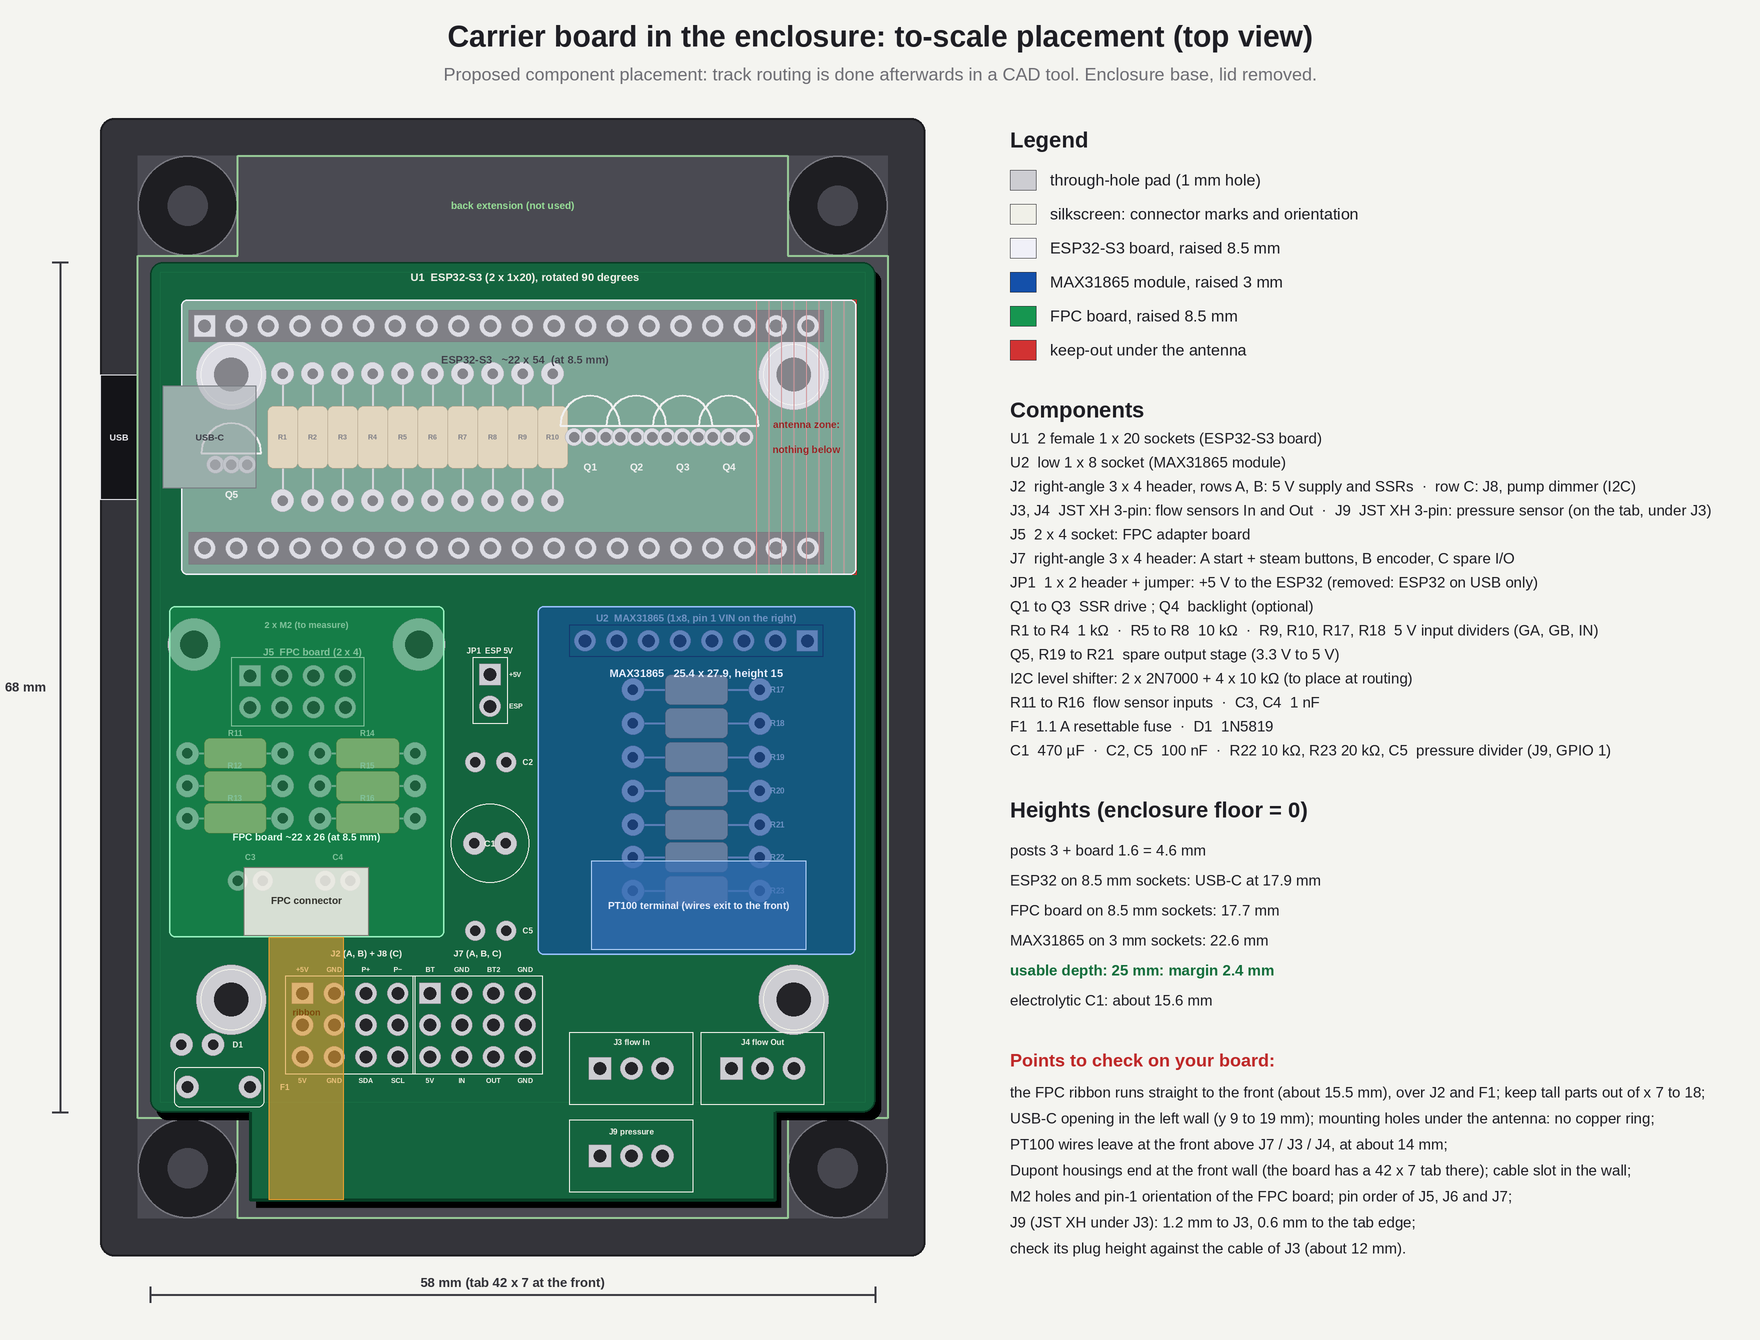
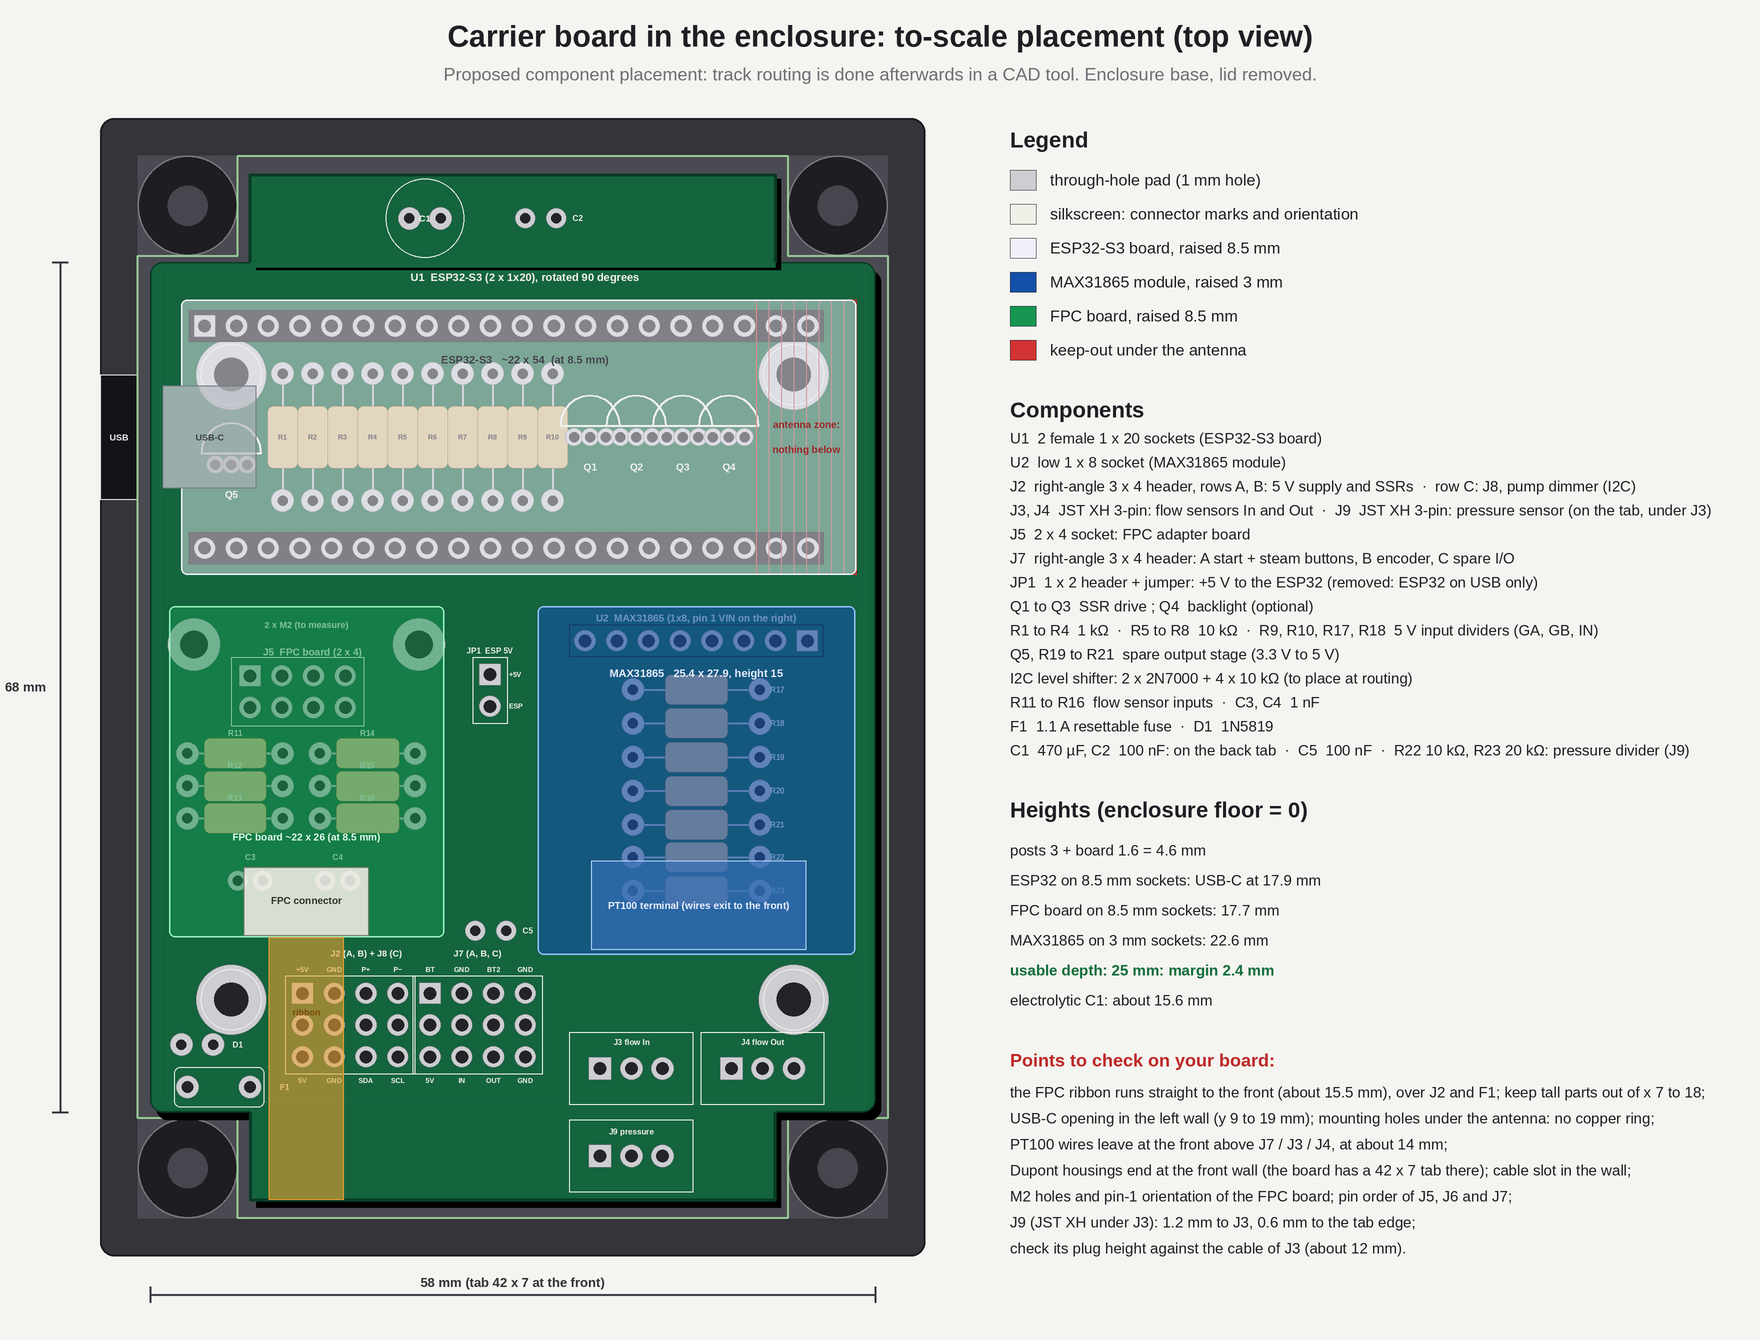
Back tab (42 x 7 mm): C1 and C2 move there, the central corridor keeps JP1 and C5
Claude-Session: https://claude.ai/code/session_012AnZeUFZeKvHXGUDRfJG7Q

diff --git a/tools/board_placement.py b/tools/board_placement.py
@@ -49,7 +49,6 @@ for (xa, xb, ya, yb) in [(-1, 7, -8.5, -0.5), (51, 59, -8.5, -0.5), (-1, 7, 68.5
     circ(d, (X(xa) + X(xb)) / 2, (Y(ya) + Y(yb)) / 2, 1.6 * K, fill=(70, 70, 78, 255))
 cross = [(-1, -0.5), (7, -0.5), (7, -8.5), (51, -8.5), (51, -0.5), (59, -0.5), (59, 68.5), (51, 68.5), (51, 76.5), (7, 76.5), (7, 68.5), (-1, 68.5)]
 line(d, [(X(a), Y(b)) for a, b in cross + [cross[0]]], (150, 200, 150), 2)
-text(d, X(29), Y(-4.5), "back extension (not used)", 10, (150, 220, 150), True)
 
 # ---------------------------------------------------------------- the board 58 x 68
 PW, PL = 58.0, 68.0
@@ -60,6 +59,10 @@ rect(d, X(0.8), Y(0.8), X(PW - 0.8), Y(PL - 0.8), outline=MASK2 + (255,), width=
 rect(d, X(8) + 6, Y(PL) + 4, X(50) + 6, Y(75) + 8, fill=(0, 0, 0, 90))
 rect(d, X(8), Y(PL) - 5, X(50), Y(75), fill=MASK + (255,))
 line(d, [(X(8), Y(PL)), (X(8), Y(75)), (X(50), Y(75)), (X(50), Y(PL))], (8, 60, 36, 255), 3)
+# back tab of the board (42 x 7) behind the ESP32: C1 and C2
+rect(d, X(8) + 6, Y(-7) + 4, X(50) + 6, Y(0) + 8, fill=(0, 0, 0, 90))
+rect(d, X(8), Y(-7), X(50), Y(0) + 5, fill=MASK + (255,))
+line(d, [(X(8), Y(0)), (X(8), Y(-7)), (X(50), Y(-7)), (X(50), Y(0))], (8, 60, 36, 255), 3)
 
 def hole(cx, cy, dia, ring):
     circ(d, X(cx), Y(cy), ring / 2 * K, fill=PAD + (255,), outline=(120, 120, 126, 255), width=1)
@@ -201,11 +204,11 @@ tpad(3.0, 66.0, ring=1.8, drill=0.9); tpad(8.0, 66.0, ring=1.8, drill=0.9)
 rrect(d, X(1.9), Y(64.4), X(9.1), Y(67.6), 6, outline=SILK + (255,), width=2); text(d, X(10.4), Y(66.0), "F1", 8, SILK, True, 'lm')
 tpad(2.5, 62.6, ring=1.8, drill=0.8); tpad(5.04, 62.6, ring=1.8, drill=0.8)
 text(d, X(6.6), Y(62.6), "D1", 8, SILK, True, 'lm')
-# C1 470 uF (radial 6.3 mm) and C2 100 nF, in the corridor
-circ(d, X(27.2), Y(46.5), 3.15 * K, fill=None, outline=SILK + (255,), width=2)
-tpad(25.95, 46.5, ring=1.8, drill=0.8); tpad(28.45, 46.5, ring=1.8, drill=0.8); silk(27.2, 46.5, "C1", 9)
-tpad(26.0, 40.0, ring=1.6, drill=0.8); tpad(28.5, 40.0, ring=1.6, drill=0.8); text(d, X(29.8), Y(40.0), "C2", 8, SILK, True, 'lm')
-# C5 100 nF (pressure filter, taller than 3 mm so not under the MAX31865): in the corridor, below C1
+# C1 470 uF (radial 6.3 mm) and C2 100 nF, on the back tab (y -7 to 0), behind the ESP32
+circ(d, X(22.0), Y(-3.5), 3.15 * K, fill=None, outline=SILK + (255,), width=2)
+tpad(20.75, -3.5, ring=1.8, drill=0.8); tpad(23.25, -3.5, ring=1.8, drill=0.8); silk(22.0, -3.5, "C1", 9)
+tpad(30.0, -3.5, ring=1.6, drill=0.8); tpad(32.5, -3.5, ring=1.6, drill=0.8); text(d, X(33.8), Y(-3.5), "C2", 8, SILK, True, 'lm')
+# C5 100 nF (pressure filter, taller than 3 mm so not under the MAX31865): in the corridor, below JP1
 tpad(26.0, 53.5, ring=1.6, drill=0.8); tpad(28.5, 53.5, ring=1.6, drill=0.8); text(d, X(29.8), Y(53.5), "C5", 8, SILK, True, 'lm')
 # JST XH x2: vertical headers, pins along x, the plugs come out upwards: no keep-out towards the front, away from the ribbon path (x 7 to 18)
 for k, (x0, name) in enumerate([(38.5, "J3 flow In"), (49.0, "J4 flow Out")]):
@@ -289,7 +292,7 @@ comp = [
     "I2C level shifter: 2 x 2N7000 + 4 x 10 kΩ (to place at routing)",
     "R11 to R16  flow sensor inputs  ·  C3, C4  1 nF",
     "F1  1.1 A resettable fuse  ·  D1  1N5819",
-    "C1  470 µF  ·  C2, C5  100 nF  ·  R22 10 kΩ, R23 20 kΩ, C5  pressure divider (J9, GPIO 1)",
+    "C1  470 µF, C2  100 nF: on the back tab  ·  C5  100 nF  ·  R22 10 kΩ, R23 20 kΩ: pressure divider (J9)",
 ]
 for i, t in enumerate(comp):
     text(d, lx, 438 + i * 24, t, 15, INK, False, 'lm')

diff --git a/tools/enclosure_overview.py b/tools/enclosure_overview.py
@@ -127,6 +127,7 @@ for (ax, ay) in [(sx0, sy0), (sx0 + 45, sy0), (sx0, sy0 + 50), (sx0 + 45, sy0 + 
     cuboid(ax - 2.4, ay - 2.4, FLOOR, 4.8, 4.8, 3.0, (36, 36, 42))
 cuboid(CX0, CY0, PCB_Z, 58, 68, PCBT, (22, 110, 66))
 cuboid(CX0 + 8, CY0 + 68, PCB_Z, 42, 7, PCBT, (22, 110, 66))          # front tab (cable side)
+cuboid(CX0 + 8, CY0 - 7, PCB_Z, 42, 7, PCBT, (22, 110, 66))           # back tab (C1, C2)
 
 # ESP32-S3 (~22 x 54) rotated 90 degrees on sockets of 8.5 mm: USB-C towards the left wall
 ex, ey = CX0 + 2.5, CY0 + 3
@@ -168,8 +169,8 @@ cuboid(CX0 + 22.4 - 1.27 + 0.15, CY0 + 65.6, top + 0.1, 10.0, 8.6, 2.3, (225, 22
 # polyfuse, standing diode, electrolytic, 100 nF, and the two JST XH (vertical headers with their plugs)
 cuboid(CX0 + 1.9, CY0 + 64.4, top, 7.2, 3.2, 11.0, (232, 200, 60))
 cuboid(CX0 + 1.2, CY0 + 61.2, top, 2.7, 2.7, 5.2, BLACK)
-cyl(CX0 + 27.2, CY0 + 46.5, 3.15, top, 12.0, (30, 40, 90))                                # 470 uF electrolytic
-cuboid(CX0 + 25.5, CY0 + 39.2, top, 4.0, 1.6, 4.2, (200, 120, 40))                        # 100 nF
+cyl(CX0 + 22.0, CY0 - 3.5, 3.15, top, 12.0, (30, 40, 90))                                # 470 uF electrolytic
+cuboid(CX0 + 29.25, CY0 - 4.3, top, 4.0, 1.6, 4.2, (200, 120, 40))                        # 100 nF (back tab)
 for k in range(2):
     xb = CX0 + 38.5 + k * 10.5 - 4.95
     cuboid(xb, CY0 + 61.6, top, 9.9, 5.8, 5.8, WHITE)                                     # JST XH header

diff --git a/docs/carrier_spec.md b/docs/carrier_spec.md
@@ -5,13 +5,13 @@ All **through-hole** parts (no SMD soldering). Related files: `images/board_plac
 ## Dimensions and mounting
 - Enclosure interior (measured): **60 mm wide x 85 mm long**. The four big posts are round, **8 mm in diameter** (8 x 8 mm footprint), in the corners. The small posts (3 mm high) are at **45 x 50 mm**, centred.
 - The posts leave a plus-shaped usable area: **60 x 69 mm** between the posts along the long sides (y from 8 to 77) and **44 mm wide over the full 85 mm length** between the end posts.
-- Board: **58 x 68 mm main body** (0.5 to 1 mm of margin all round) **plus a 42 x 7 mm tab on the cable (front) side**, so the board is 75 mm long at the tab; two layers, ground plane. The tab lets the Dupont housings of J2 / J7 and the JST XH plugs sit on the board up to the front wall; the back extension (same size) is not used.
+- Board: **58 x 68 mm main body** (0.5 to 1 mm of margin all round) **plus a 42 x 7 mm tab on the cable (front) side and a 42 x 7 mm tab at the back, behind the ESP32** (x 8 to 50), so the board is 82 mm long at the tabs; two layers, ground plane. The tab lets the Dupont housings of J2 / J7 and the JST XH plugs sit on the board up to the front wall; the back tab holds C1 (470 µF, x 22, y −3.5) and C2 (100 nF, x 31, y −3.5), which frees the central corridor; keep it clear of the antenna zone (x 48.5 and beyond).
 - 4 mounting holes on the **3 mm** small posts, **45 x 50 mm** spacing, centred in the interior (board coordinates (6.5, 9), (51.5, 9), (6.5, 59), (51.5, 59)).
 - Usable depth **25 mm**: posts 3 + board 1.6 = 4.6 mm; ESP32 on 8.5 mm sockets (USB-C at 17.9 mm); FPC adapter board on 8.5 mm sockets (17.7 mm); MAX31865 on low 3 mm sockets (22.6 mm, 2.4 mm margin).
 - **ESP32-S3 rotated 90 degrees** (long side across the board, at the back, y 3 to 25 mm): **USB-C towards the left wall**, with an opening in that wall at y 9 to 19 mm (the connector is then far from the 8 mm corner posts). The antenna end is on the right (x 48.5 to 56.5 mm).
 - **Under the ESP32 (between the two socket rows, 8.5 mm clearance):** vertical axial resistors R1 to R10, then Q1 to Q4 on the right; Q5 (spare output) at the left, next to the USB end. The two small standoffs at the back (6.5, 9) and (51.5, 9) are under the ESP32; the one on the right is under the antenna, so use a **non-plated hole with no copper ring** there.
-- **Connector rows:** J8 is the lowest row of the J2 header; J7 is also a 3 x 4 right-angle strip (row A: start and steam buttons, row B: encoder, row C: spare I/O); each row has its own Dupont housing, rows are 2.54 mm apart vertically, the housings are not keyed: mind the order. J8 and J9 both have their plug and cable. The corridor between the FPC board and the MAX31865 holds JP1, C1 and C2.
-- **Below the ESP32, side by side:** the FPC adapter board on the **left** (x 1.5 to 23.5 mm, connector towards the front, flow-input parts R11 to R16 and C3, C4 under it), the MAX31865 on the **right** (x 31 to 56.4 mm, rotated 180 degrees: header on its rear edge, pin 1 VIN on the right, PT100 terminal block facing the front), and a corridor between them (x 23.5 to 31 mm) holding J8, J9, C1 and C2.
+- **Connector rows:** J8 is the lowest row of the J2 header; J7 is also a 3 x 4 right-angle strip (row A: start and steam buttons, row B: encoder, row C: spare I/O); each row has its own Dupont housing, rows are 2.54 mm apart vertically, the housings are not keyed: mind the order. J8 and J9 both have their plug and cable. The corridor between the FPC board and the MAX31865 holds JP1 and C5.
+- **Below the ESP32, side by side:** the FPC adapter board on the **left** (x 1.5 to 23.5 mm, connector towards the front, flow-input parts R11 to R16 and C3, C4 under it), the MAX31865 on the **right** (x 31 to 56.4 mm, rotated 180 degrees: header on its rear edge, pin 1 VIN on the right, PT100 terminal block facing the front), and a corridor between them (x 23.5 to 31 mm) holding JP1 and C5.
 - **Front connector row:** right-angle headers with their Dupont housings need about **9 mm in front of the pads** (keep-out, nothing else there); J2 and J7 are on the 42 x 7 mm tab, the vertical JST XH J3 and J4 at the front right, F1 and D1 in the front-left corner. A cable slot is needed in the front wall (housings end about 1 mm from it).
 - **All cables leave through the front** (J2, J7, J3, J4, the PT100 wires and the display ribbon). Only the USB-C cable leaves through the left wall.
 - **Display ribbon:** the FPC adapter board is rotated so that its connector faces the front: the flat ribbon (about 6 mm wide, at about 15.5 mm) runs **straight to the front** between x 7 and 18 mm, above J2's housings (10.5 mm) and F1; no tall part (JST XH plugs reach about 16 mm) may sit in that column. Nothing crosses the MAX31865 any more.
@@ -89,7 +89,7 @@ Same order as J3 / J4:
 
 The footprint (9.9 x 5.8 mm, pins along x, plug upwards, real pitch 2.5 mm) is centred at x 38.5, y 71.5 mm (J3 at x 38.5 and J4 at x 49, both at y 64.5), inside the 42 x 7 mm tab (y 68 to 75): **only 1.2 mm to J3 and 0.6 mm to the tab edge**, and 1.5 mm from the front wall. Check the plug heights against the cable of J3 (about 12 mm); one more 3-wire cable (4.5 mm) goes through the front slot.
 
-G1/4 sensor, 0 to 12 bar, 0.5 to 4.5 V output. The signal goes through a divider, 10 kΩ (series) / 20 kΩ (to GND), which brings 4.5 V down to 3.0 V, plus 100 nF on GPIO 1 (ADC1, 11 dB attenuation); on the board: R22 (10 kΩ) and R23 (20 kΩ) flat under the MAX31865 below R21, C5 (100 nF) in the corridor below C1. Pressure in bar = (sensor voltage − 0.5) x 3. Average the readings (the ESP32 ADC is noisy and not very linear at the ends). The pump can reach about 19 bar at zero flow, above the sensor's 12 bar range: make sure the machine's pressure relief valve limits the pressure at the sensor tap (and check the sensor's overpressure rating).
+G1/4 sensor, 0 to 12 bar, 0.5 to 4.5 V output. The signal goes through a divider, 10 kΩ (series) / 20 kΩ (to GND), which brings 4.5 V down to 3.0 V, plus 100 nF on GPIO 1 (ADC1, 11 dB attenuation); on the board: R22 (10 kΩ) and R23 (20 kΩ) flat under the MAX31865 below R21, C5 (100 nF) in the corridor, below JP1. Pressure in bar = (sensor voltage − 0.5) x 3. Average the readings (the ESP32 ADC is noisy and not very linear at the ends). The pump can reach about 19 bar at zero flow, above the sensor's 12 bar range: make sure the machine's pressure relief valve limits the pressure at the sensor tap (and check the sensor's overpressure rating).
 
 ### J3 / J4 (JST XH 3-pin)
 1 = +5 V, 2 = signal, 3 = GND. The exact order comes from the sensor cable (often red / yellow / black).
@@ -141,7 +141,7 @@ Silkscreen read on the photo, left column from the USB-C end: GND, 5V, G48, BOOT
 | 1 | 470 µF 10 V radial capacitor; 4 x 100 nF; 2 x 1 nF | 1 € |
 | 4 | 3 mm standoffs (existing) + M2.5 screws | 0 |
 | | **Total parts** | **about 6 to 9 €** |
-| 5 | bare boards, 58 x 68 mm + 42 x 7 mm tab, 2 layers (shipping included) | 10 to 20 € |
+| 5 | bare boards, 58 x 68 mm + two 42 x 7 mm tabs (front and back), 2 layers (shipping included) | 10 to 20 € |
 
 ## Points to confirm before manufacturing
 1. Display ribbon (J5): the pinout of the module is known (BLK, CS, DC, RES, SDA, SCL, VCC, GND); still to confirm the ribbon type (straight or reversed contacts) and the adapter's FPC-pin-to-header mapping, and the backlight polarity of BLK.
